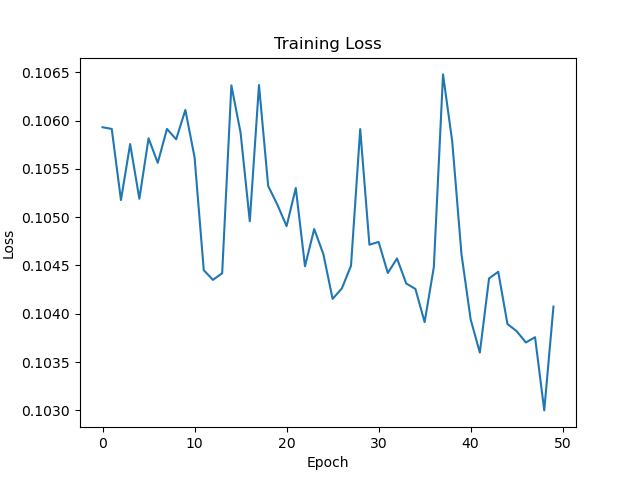
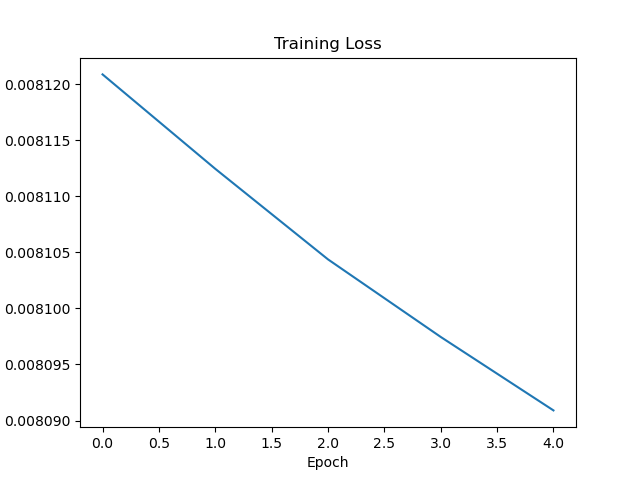
better params

diff --git a/GNN-foraging-birds/script_boid.py b/GNN-foraging-birds/script_boid.py
@@ -10,18 +10,28 @@ import matplotlib.pyplot as plt
 import matplotlib.animation as animation
 from matplotlib import colors
 import csv
+import os
+from datetime import datetime
+
+# make folder for gif outputs
+now = datetime.now()
+now_str = now.strftime("%Y-%m-%d-%H-%M-%S")
+plots_dir = '/Users/emily/Downloads/plots_tmp'
+plots_dir = os.path.join(plots_dir, now_str)
+os.makedirs(plots_dir, exist_ok=True)
 
 # Boids simulation parameters
-num_birds = 15
+num_birds = 25
 num_steps_train = 100
-num_sims_train = 100
-num_steps_test = 100
+num_sims_train = 300
+num_steps_test = 150
 grid_size = 40
-neighbor_radius = 15
-close_radius = 3
+neighbor_radius = 8
+close_radius = 5
 alignment_weight = 0.2
-cohesion_weight = 0.1
+cohesion_weight = 0.05
 separation_weight = 0.1
+max_speed=.5
 
 # # Initial bird positions and velocities
 positions = np.random.rand(num_birds, 2) * grid_size
@@ -29,25 +39,26 @@ velocities = (np.random.rand(num_birds, 2) - 0.5) * 2
 
 # define generative model 
 def boid_model(positions, velocities):
-    _, new_velocities = GNN_foraging_birds.step_position_velocity_boid(positions, velocities, neighbor_radius, close_radius, alignment_weight, cohesion_weight, separation_weight, grid_size)
+    _, new_velocities = GNN_foraging_birds.step_position_velocity_boid(positions, velocities, neighbor_radius, close_radius, alignment_weight, cohesion_weight, separation_weight, grid_size, max_speed)
     return new_velocities
 
-# Generate actual trajectories
-actual_trajectories = GNN_foraging_birds.generate_trajectories(boid_model, positions.copy(), velocities.copy(), num_steps_test, neighbor_radius=neighbor_radius, grid_size=grid_size)
+# # Generate actual trajectories for plotting
+# actual_trajectories = GNN_foraging_birds.generate_trajectories(boid_model, positions.copy(), velocities.copy(), num_steps_test, neighbor_radius=neighbor_radius, grid_size=grid_size)
 
-# Plot actual and predicted trajectories
-GNN_foraging_birds.animate_agents(  actual_trajectories=actual_trajectories, 
-                                    num_steps_test=num_steps_test, 
-                                    savename = 'output_boid_trajectories.gif', 
-                                    grid_size=grid_size)
+# # Plot actual and predicted trajectories
+# GNN_foraging_birds.animate_agents(  actual_trajectories=actual_trajectories, 
+#                                     num_steps_test=num_steps_test, 
+#                                     savename = 'output_boid_trajectories.gif', 
+#                                     grid_size=grid_size)
 
 # Generate training dataset
-dataset = GNN_foraging_birds.generate_dataset_boid(num_birds, num_sims_train, num_steps_train, neighbor_radius, close_radius, alignment_weight, cohesion_weight, separation_weight, grid_size)
+dataset = GNN_foraging_birds.generate_dataset_boid(num_birds, num_sims_train, num_steps_train, neighbor_radius, close_radius, alignment_weight, cohesion_weight, separation_weight, grid_size, max_speed)
 
 # Train GNN model
 for meta_epoch in range(20):
     print('Meta epoch: ', meta_epoch)
-    model = GNN_foraging_birds.train_GNN_model(dataset, hidden_dim=32, num_epochs=50, learning_rate=0.01, load_path='gnn_extended_params_boid.pth', save_path='gnn_extended_params_boid.pth')
+    model = GNN_foraging_birds.train_GNN_model(dataset, hidden_dim=32, num_epochs=5, learning_rate=0.001, load_path='gnn_extended_params_boid.pth', save_path='gnn_extended_params_boid.pth')
+    torch.save(model.state_dict(), os.path.join(plots_dir, 'gnn_extended_params_boid_meta_epoch'+str(meta_epoch)+'.pth'))
 
     # Initial bird positions and velocities
     positions = np.random.rand(num_birds, 2) * grid_size
@@ -61,5 +72,5 @@ for meta_epoch in range(20):
     GNN_foraging_birds.animate_agents(  actual_trajectories=actual_trajectories, 
                                         predicted_trajectories=predicted_trajectories, 
                                         num_steps_test=num_steps_test, 
-                                        savename = 'output_meta_epoch'+str(meta_epoch)+'trajectories.gif', 
+                                        savename = os.path.join(plots_dir, 'trajectories_meta_epoch'+str(meta_epoch)+'.gif'), 
                                         grid_size=grid_size)

diff --git a/GNN-foraging-birds/GNN_foraging_birds.py b/GNN-foraging-birds/GNN_foraging_birds.py
@@ -12,9 +12,11 @@ import matplotlib.animation as animation
 from matplotlib import colors
 import csv
 from torch_geometric.nn import BatchNorm
+from sklearn.preprocessing import StandardScaler
 
 
-def generate_dataset_boid(num_birds, num_sims_train, num_steps_train, neighbor_radius=15, close_radius=3, alignment_weight=0.1, cohesion_weight=0.1, separation_weight=0.1, grid_size=30):
+
+def generate_dataset_boid(num_birds, num_sims_train, num_steps_train, neighbor_radius=15, close_radius=3, alignment_weight=0.1, cohesion_weight=0.1, separation_weight=0.1, grid_size=30, max_speed=.25):
     dataset = []
 
     for sim in range(num_sims_train):
@@ -28,8 +30,10 @@ def generate_dataset_boid(num_birds, num_sims_train, num_steps_train, neighbor_r
             dists = np.sqrt(((positions[:, None] - positions)**2).sum(-1))
             edges = np.argwhere(dists < neighbor_radius)
 
+            # normalize data for gnn input
+            gnn_in_position, gnn_in_velocity = transform_position_velocity_for_gnn(positions, velocities, grid_size)
             # Convert to PyTorch tensors
-            x = torch.tensor(np.hstack([positions, velocities]), dtype=torch.float)
+            x = torch.tensor(np.hstack([gnn_in_position, gnn_in_velocity]), dtype=torch.float)
             edge_index = torch.tensor(edges.transpose(), dtype=torch.long)
             y = torch.tensor(new_velocities, dtype=torch.float)
 
@@ -43,7 +47,7 @@ def generate_dataset_boid(num_birds, num_sims_train, num_steps_train, neighbor_r
             
     return dataset
 
-def step_position_velocity_boid(positions, velocities, neighbor_radius=15, close_radius=3, alignment_weight=0.01, cohesion_weight=0.01, separation_weight=0.01, grid_size=30):
+def step_position_velocity_boid(positions, velocities, neighbor_radius=15, close_radius=3, alignment_weight=0.01, cohesion_weight=0.01, separation_weight=0.01, grid_size=30, max_speed=.25):
     num_birds = len(positions)
 
     # Compute pairwise distances
@@ -85,8 +89,8 @@ def step_position_velocity_boid(positions, velocities, neighbor_radius=15, close
 
     # Limit speed
     speeds = np.sqrt((new_velocities**2).sum(axis=1))
-    over_speed_birds = speeds > 1
-    new_velocities[over_speed_birds] = new_velocities[over_speed_birds] / speeds[over_speed_birds, None]
+    over_speed_birds = speeds > max_speed
+    new_velocities[over_speed_birds] = new_velocities[over_speed_birds] / speeds[over_speed_birds, None] * max_speed
 
     # Update positions
     new_positions = positions + new_velocities
@@ -105,6 +109,11 @@ def step_position_velocity_boid(positions, velocities, neighbor_radius=15, close
     new_velocities[mask_outside_y, 1] *= -1
 
     return new_positions, new_velocities
+
+def transform_position_velocity_for_gnn(position, velocity, grid_size=30):
+    tr_position = position/grid_size
+    tr_velocity = velocity
+    return tr_position, tr_velocity
 
 
 class GNN_foraging_simple(torch.nn.Module):
@@ -225,9 +234,12 @@ def generate_trajectories(model, positions, velocities, num_steps, neighbor_radi
         if isinstance(model, Module):
             # Model is a PyTorch module
 
+            # normalize positions and velocities for input to GNN
+            gnn_in_position, gnn_in_velocity = transform_position_velocity_for_gnn(positions, velocities, grid_size=30)
+
             # Convert to PyTorch tensors
-            positions_t = torch.tensor(positions, dtype=torch.float)
-            velocities_t = torch.tensor(velocities, dtype=torch.float)
+            positions_t = torch.tensor(gnn_in_position, dtype=torch.float)
+            velocities_t = torch.tensor(gnn_in_velocity, dtype=torch.float)
             x = torch.cat([positions_t, velocities_t], dim=-1)
 
             # Compute pairwise distances and find neighbors
@@ -261,7 +273,7 @@ def animate_agents(actual_trajectories, predicted_trajectories=[], num_steps_tes
     ax.set_ylim(0, grid_size)
     ax.set_aspect('equal')
     plt.xticks([])
-    plt.xticks([])
+    plt.yticks([])
     # ax.set_title('Actual and Predicted Trajectories')
 
     fade_steps = 10
